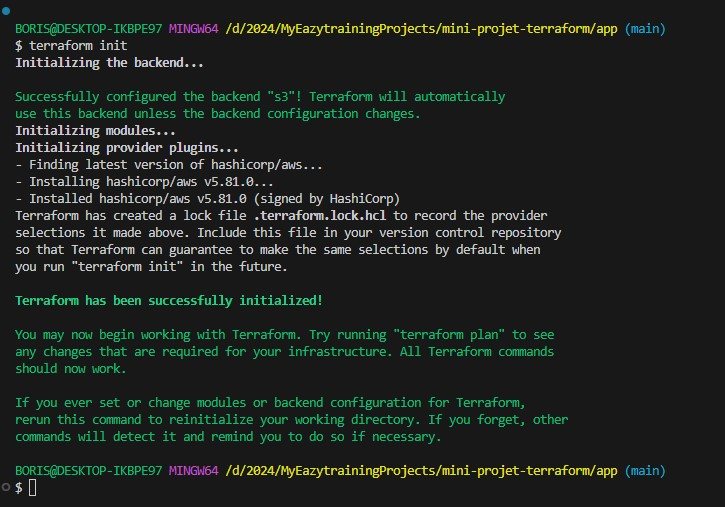
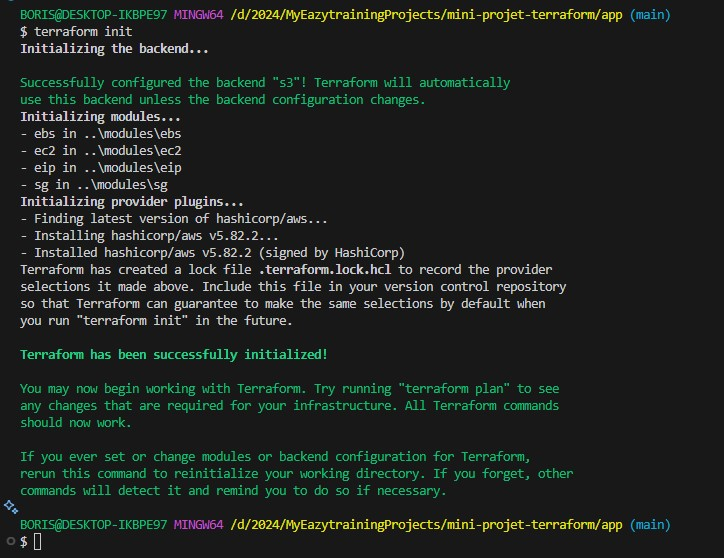
Etape N°3 : Création de l'environnement (APP) à provisionner : Utilisation des modules

Changed region(s): [[0.0, 0.0, 0.942, 0.8876], [0.0, 0.8876, 0.942, 1.0]]

diff --git a/README.md b/README.md
@@ -435,10 +435,20 @@ Le contenu des fichiers se présente comme suit :
 
 - Le fichier ***variables.tf*** :
 
-Ce fichier contient l'ensemble des éléments variabilisés (**region, credentials, bucket et bucket_key**).
+Ce fichier contient l'ensemble des éléments variabilisés (**region, credentials**).
 
 ```bash
+variable "aws_region" {
+  type        = string
+  default     = "us-east-1"
+  description = "La région de travail dans le cloud AWS"
+}
 
+variable "aws_credentials" {
+  type        = string
+  default     = "C:/Users/BORIS/Downloads/aws_credentials"
+  description = "Le fichier contenant les credentials"
+}
 ```
 
 - Le fichier ***main.tf*** :
@@ -446,7 +456,56 @@ Ce fichier contient l'ensemble des éléments variabilisés (**region, credentia
 Il va contenir l'ensemble des éléments sensibles (le provider aws et le backend S3) et non sensibles (l'appel du module EC2).
 
 ```bash
+# Configuration du Provider AWS
+provider "aws" {
+  region                   = var.aws_region
+  shared_credentials_files = ["${var.aws_credentials}"]
+}
 
+# Configuration du backend s3
+terraform {
+  backend "s3" {
+    bucket                   = "mini-projet-terraform-backend"
+    key                      = "mini-projet-terraform.tfstate"
+    region                   = "us-east-1"
+    shared_credentials_files = ["C:/Users/BORIS/Downloads/aws_credentials"]
+  }
+}
+
+# Création du volume EBS : Appel du module ebs
+module "ebs" {
+  source = "../modules/ebs"
+}
+
+# Création du groupe de sécurité : Appel du module sg
+module "sg" {
+  source = "../modules/sg"
+}
+
+# Création de l'EIP : Appel du module eip
+module "eip" {
+  source = "../modules/eip"
+}
+
+# Création de la VM : Appel du module ec2
+module "ec2" {
+  # Définition de la source du module EC2
+  source = "../modules/ec2"
+  ec2_sg = module.sg.sg_name_output
+}
+
+# Création de la ressource pour attacher le volume EBS à la VM
+resource "aws_volume_attachment" "myebs_attachement" {
+  device_name = "/dev/sdb"
+  volume_id   = module.ebs.ebs_id_output
+  instance_id = module.ec2.ec2_id_output
+}
+
+# Création de la ressource pour attacher l'EIP' à la VM
+resource "aws_eip_association" "myeip_association" {
+  allocation_id = module.eip.eip_id_output
+  instance_id   = module.ec2.ec2_id_output
+}
 ```
 
 - Le fichier ***infos_ec2.txt*** :
